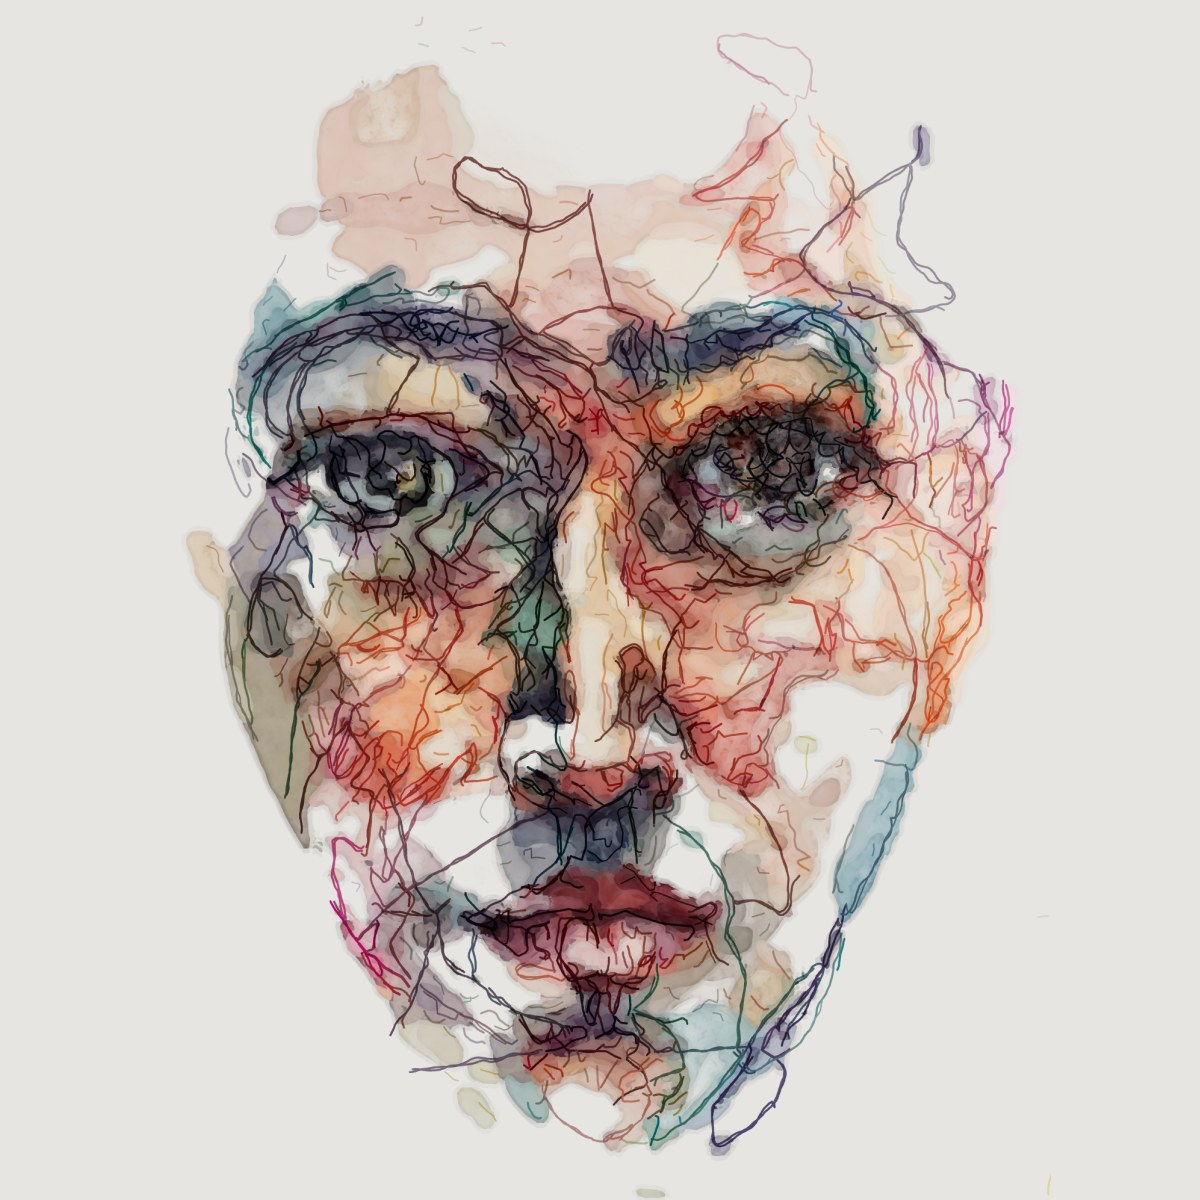
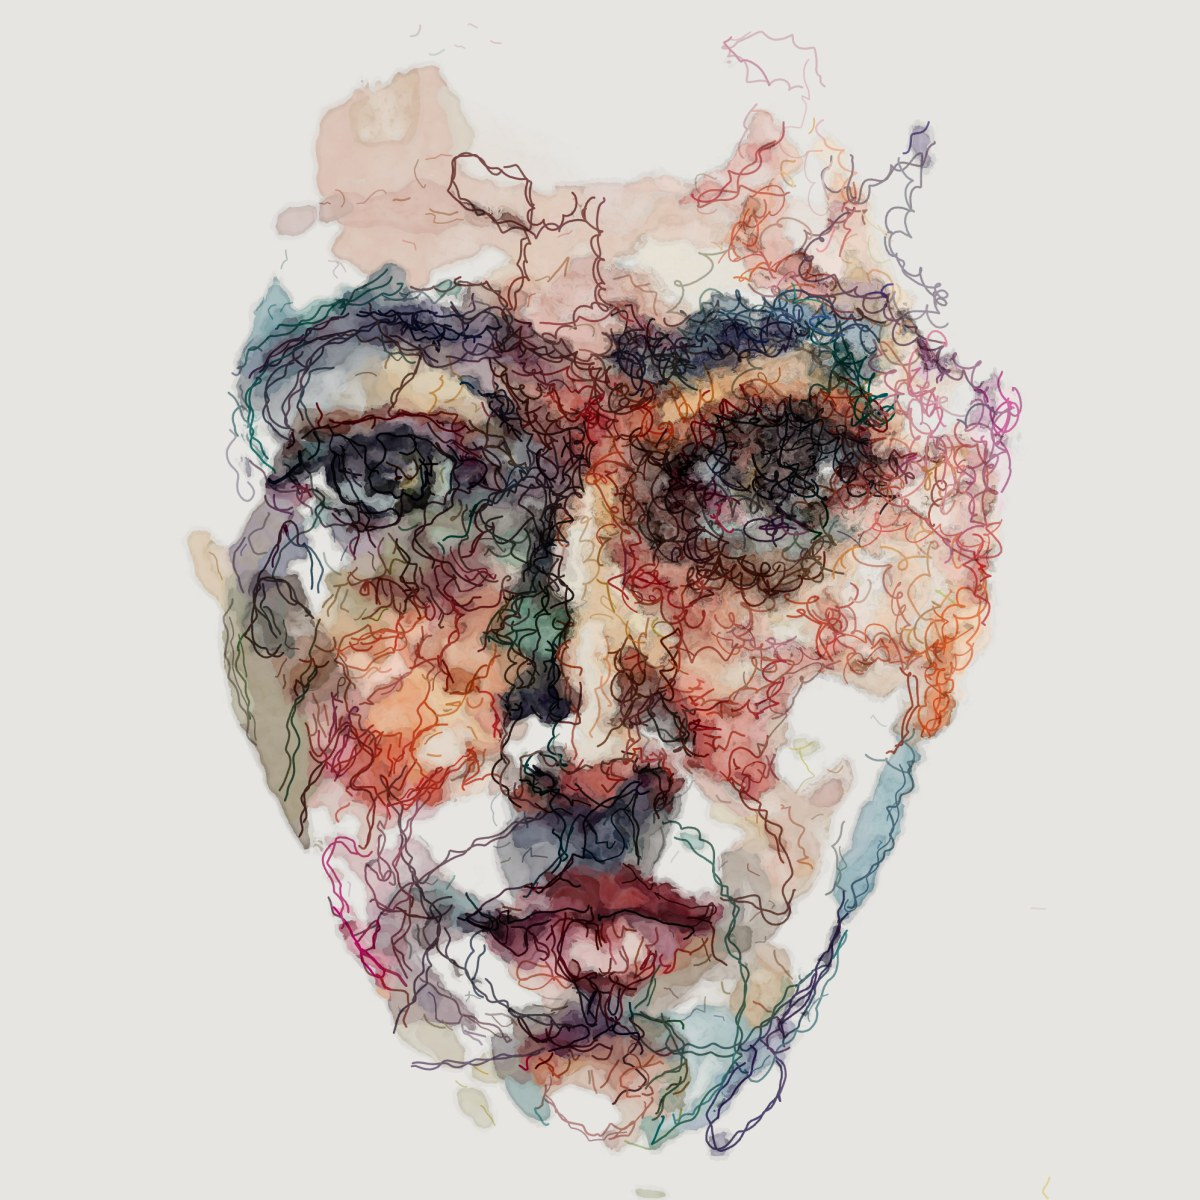
Share card v2: fresh link, preview image and description for the current piece
X caches cards per link, so the share page now carries a version on its own URL
and on the player and image URLs.

Changed region(s): [[0.185, 0.0308, 0.8633, 0.9558], [0.8633, 0.9867, 0.8942, 1.0]]

diff --git a/x/portrait/index.html b/x/portrait/index.html
@@ -5,24 +5,24 @@
 <meta charset="utf-8">
 <meta name="viewport" content="width=device-width,initial-scale=1">
 <title>Moving Lines — a scribble portrait that boils under your cursor</title>
-<meta name="description" content="Pen lines and watercolour, redrawn four times a second. Move over the painting to make it scribble.">
+<meta name="description" content="Pen lines and watercolour, redrawn four times a second. Move over the painting to make it scribble; click for the sound of the pen.">
 
 <meta name="twitter:card" content="player">
 <meta name="twitter:title" content="Moving Lines — a scribble portrait that boils under your cursor">
-<meta name="twitter:description" content="Pen lines and watercolour, redrawn four times a second. Move over the painting to make it scribble.">
-<meta name="twitter:image" content="https://harshitsatija.github.io/moving-lines/x/portrait/card.jpg">
+<meta name="twitter:description" content="Pen lines and watercolour, redrawn four times a second. Move over the painting to make it scribble; click for the sound of the pen.">
+<meta name="twitter:image" content="https://harshitsatija.github.io/moving-lines/x/portrait/card.jpg?v=2">
 <meta name="twitter:image:alt" content="A pen-and-watercolour portrait whose lines scribble and boil">
-<meta name="twitter:player" content="https://harshitsatija.github.io/moving-lines/embed.html">
+<meta name="twitter:player" content="https://harshitsatija.github.io/moving-lines/embed.html?v=2">
 <meta name="twitter:player:width" content="480">
 <meta name="twitter:player:height" content="480">
 
 <meta property="og:type" content="website">
 <meta property="og:title" content="Moving Lines — a scribble portrait that boils under your cursor">
-<meta property="og:description" content="Pen lines and watercolour, redrawn four times a second. Move over the painting to make it scribble.">
-<meta property="og:image" content="https://harshitsatija.github.io/moving-lines/x/portrait/card.jpg">
+<meta property="og:description" content="Pen lines and watercolour, redrawn four times a second. Move over the painting to make it scribble; click for the sound of the pen.">
+<meta property="og:image" content="https://harshitsatija.github.io/moving-lines/x/portrait/card.jpg?v=2">
 <meta property="og:image:width" content="1200">
 <meta property="og:image:height" content="1200">
-<meta property="og:url" content="https://harshitsatija.github.io/moving-lines/x/portrait/">
+<meta property="og:url" content="https://harshitsatija.github.io/moving-lines/x/portrait/?v=2">
 <link rel="canonical" href="https://harshitsatija.github.io/moving-lines/x/portrait/">
 <meta http-equiv="refresh" content="0; url=https://harshitsatija.github.io/moving-lines/embed.html">
 </head>

diff --git a/tools/share.py b/tools/share.py
@@ -1,24 +1,27 @@
 """Write the X share page for the moving portrait.
 
-    python3 tools/share.py https://your-host.example
+    python3 tools/share.py https://your-host.example [version]
 
 Posting https://your-host.example/x/portrait/ on X shows a Player Card: on desktop the
 piece itself (embed.html) runs inside the post, in a 480x480 iframe. Apps that don't
 play cards show x/portrait/card.jpg and open the page, which forwards to the piece.
-X needs absolute https URLs in these tags, and it caches cards: after changing them,
-re-post or wait for the cache to refresh. The host must allow framing by x.com (no
-X-Frame-Options: DENY, no frame-ancestors that exclude it).
+X needs absolute https URLs in these tags, and it caches cards per link: after an
+update, bump the version and post the new link (…/x/portrait/?v=<version>); the
+version also goes on the player and image URLs so X fetches those fresh too.
+The host must allow framing by x.com (no X-Frame-Options: DENY, no frame-ancestors
+that exclude it).
 """
 import html
 import sys
 from pathlib import Path
 
 base = sys.argv[1].rstrip("/")
+v = sys.argv[2] if len(sys.argv) > 2 else "1"
 if not base.startswith("https://"):
     sys.exit("X only plays cards from https URLs")
 e = lambda s: html.escape(s, quote=True)
 title = "Moving Lines — a scribble portrait that boils under your cursor"
-desc = "Pen lines and watercolour, redrawn four times a second. Move over the painting to make it scribble."
+desc = "Pen lines and watercolour, redrawn four times a second. Move over the painting to make it scribble; click for the sound of the pen."
 page = f"""<!doctype html>
 <!-- Share page for X: written by tools/share.py, see there. -->
 <html lang="en">
@@ -31,19 +34,19 @@ page = f"""<!doctype html>
 <meta name="twitter:card" content="player">
 <meta name="twitter:title" content="{e(title)}">
 <meta name="twitter:description" content="{e(desc)}">
-<meta name="twitter:image" content="{base}/x/portrait/card.jpg">
+<meta name="twitter:image" content="{base}/x/portrait/card.jpg?v={v}">
 <meta name="twitter:image:alt" content="A pen-and-watercolour portrait whose lines scribble and boil">
-<meta name="twitter:player" content="{base}/embed.html">
+<meta name="twitter:player" content="{base}/embed.html?v={v}">
 <meta name="twitter:player:width" content="480">
 <meta name="twitter:player:height" content="480">
 
 <meta property="og:type" content="website">
 <meta property="og:title" content="{e(title)}">
 <meta property="og:description" content="{e(desc)}">
-<meta property="og:image" content="{base}/x/portrait/card.jpg">
+<meta property="og:image" content="{base}/x/portrait/card.jpg?v={v}">
 <meta property="og:image:width" content="1200">
 <meta property="og:image:height" content="1200">
-<meta property="og:url" content="{base}/x/portrait/">
+<meta property="og:url" content="{base}/x/portrait/?v={v}">
 <link rel="canonical" href="{base}/x/portrait/">
 <meta http-equiv="refresh" content="0; url={base}/embed.html">
 </head>
@@ -55,4 +58,4 @@ page = f"""<!doctype html>
 """
 out = Path(__file__).resolve().parent.parent / "x" / "portrait" / "index.html"
 out.write_text(page)
-print(f"wrote {out}\npost this link on X: {base}/x/portrait/")
+print(f"wrote {out}\npost this link on X: {base}/x/portrait/?v={v}")
